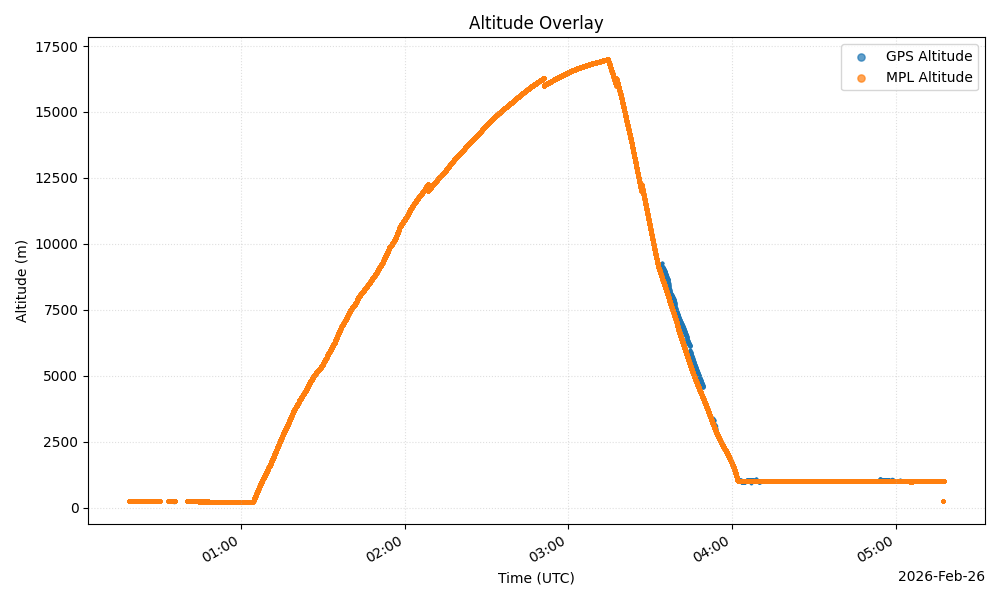
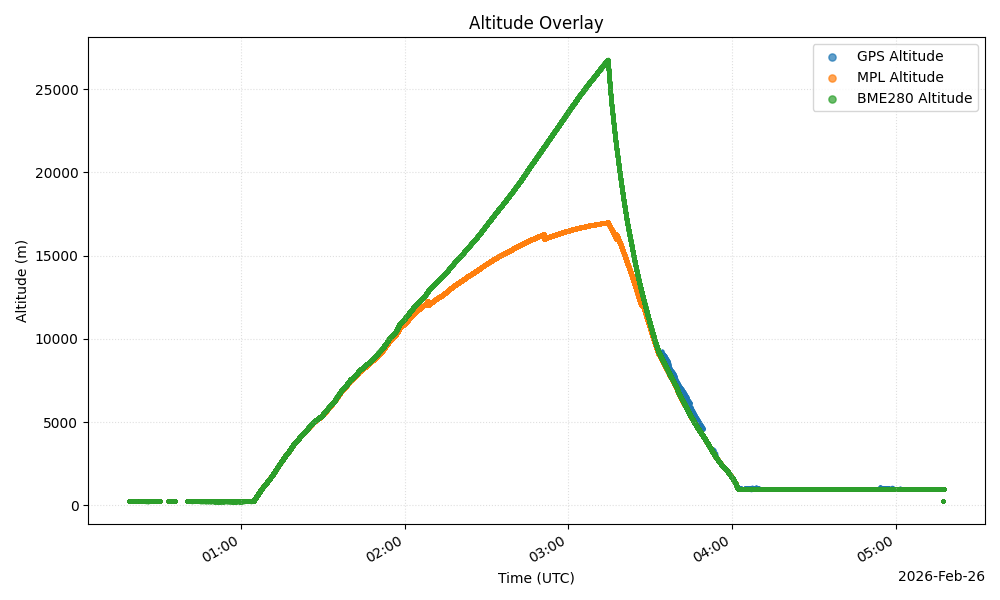
mpl bad

diff --git a/lab4/plot.py b/lab4/plot.py
@@ -5,6 +5,7 @@ import sys
 import matplotlib.pyplot as plt
 import matplotlib.dates as mdates
 from datetime import datetime
+import math
 
 # 1. Configuration
 # ts, 5 temps, 3 accel, 3 gyro, 3 mag, 3 bme, 3 ina, is_utc, bme280_status, ina219_status, imu_status, temp_status
@@ -236,10 +237,32 @@ if __name__ == "__main__":
         create_window(f"GPS Latitude", time_data, [mission_data['gps'][0]], ["Latitude"], "Degrees")
         create_window(f"GPS Longitude", time_data, [mission_data['gps'][1]], ["Longitude"], "Degrees")
         
-        # Overlaying GPS (index 2 of gps data) and MPL altitude
-        M = [m/3.281 for m in mission_data['mpl']]  # Convert feet to meters if needed
-        alt_data = [mission_data['gps'][2], M]
-        alt_labels = ["GPS Altitude", "MPL Altitude"]
+        # Overlaying GPS (index 2 of gps data) and MPL altitude'
+        def hpa_to_altitude(pressure_hpa):
+            # Constants for the Standard Atmosphere
+            P0 = 1013.25 # Sea level pressure in hPa
+            
+            # If pressure is very low (Stratosphere), we use a different calculation
+            # 226.32 hPa is the approximate pressure at the Tropopause (11km)
+            if pressure_hpa > 226.32:
+                # Troposphere Math
+                altitude = 44330.77 * (1.0 - (pressure_hpa / P0)**0.190263)
+            else:
+                # Stratosphere Math (11km to 20km+)
+                # This accounts for the isothermal layer where temp is constant (-56.5C)
+                h_tropo = 11000  # Tropopause height in meters
+                p_tropo = 226.32 # Pressure at tropopause
+                T_tropo = 216.65 # Temp in Kelvin (-56.5C)
+                R = 287.058      # Gas constant
+                g = 9.80665      # Gravity
+                
+                altitude = h_tropo - (R * T_tropo / g) * math.log(pressure_hpa / p_tropo)
+
+            return altitude
+        B = [hpa_to_altitude(p) for p in mission_data['bme'][1]]
+        M = [m/3.28084 for m in mission_data["mpl"]]  
+        alt_data = [mission_data['gps'][2], M, B]
+        alt_labels = ["GPS Altitude", "MPL Altitude", "BME280 Altitude"]
         create_window("Altitude Overlay", time_data, alt_data, alt_labels, "Altitude (m)")
 
         # statuses
